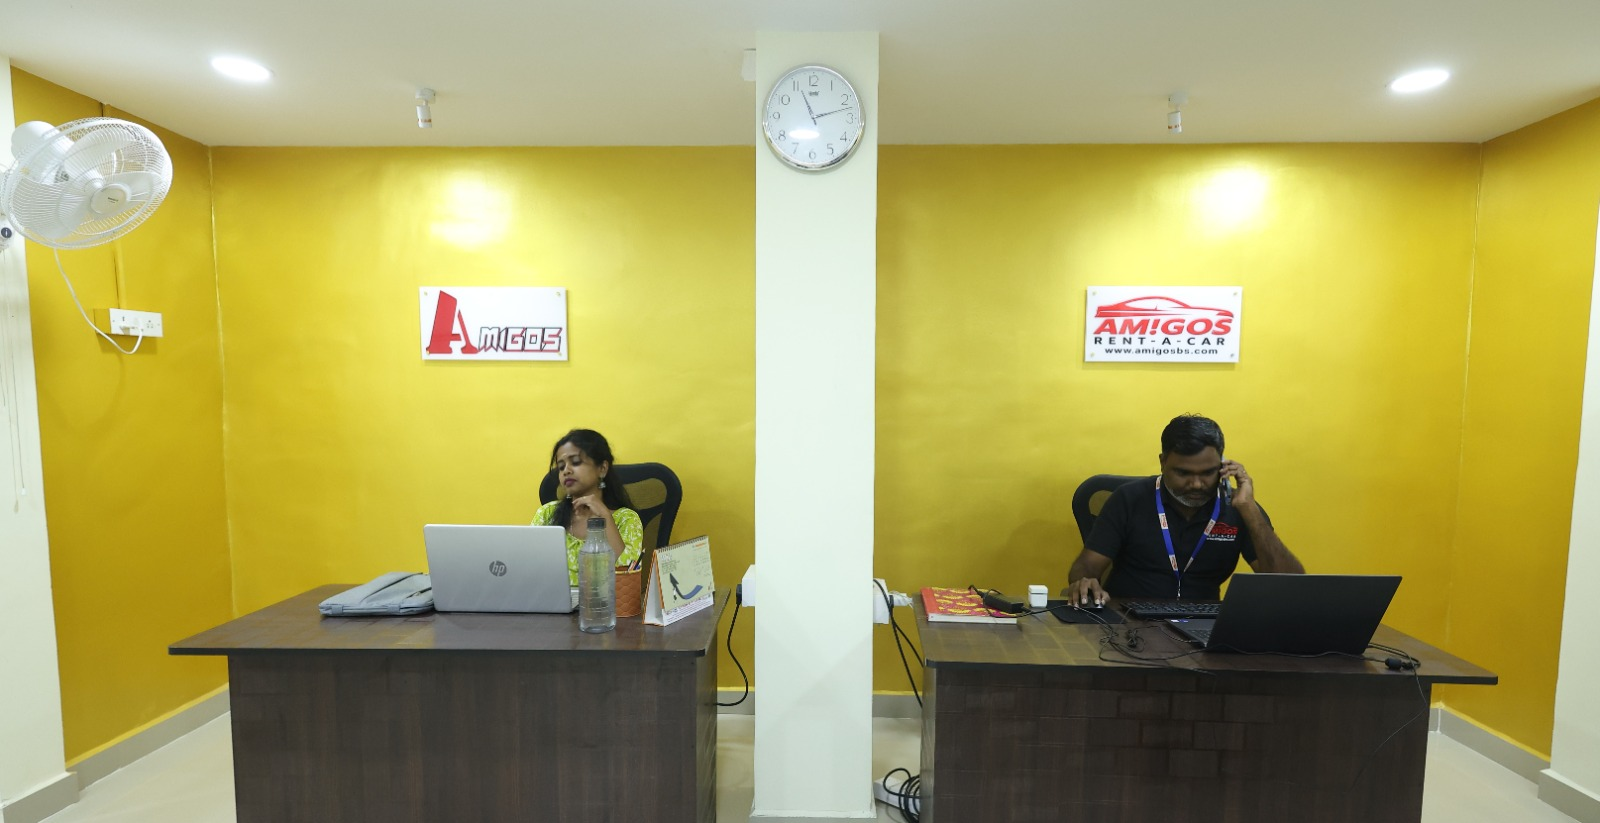
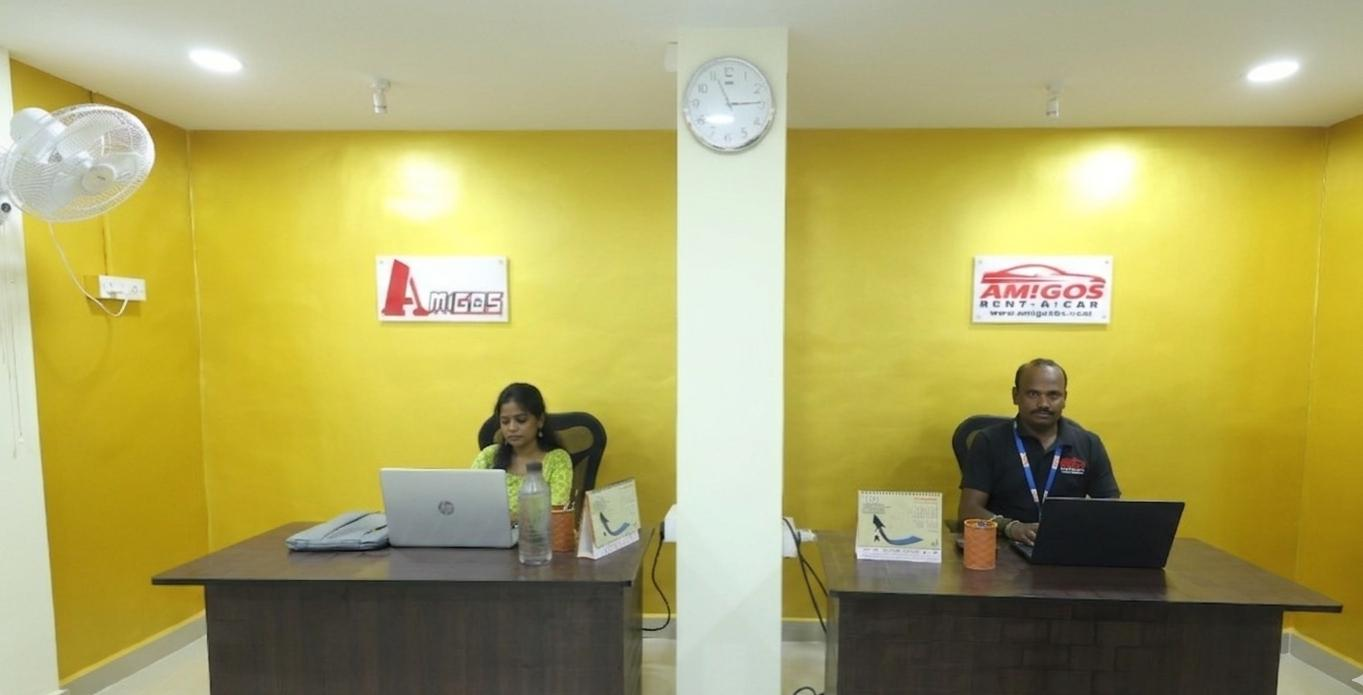
ui

diff --git a/src/components/screens/home/sections/team/team.module.scss b/src/components/screens/home/sections/team/team.module.scss
@@ -22,12 +22,27 @@
     position: relative;
     border-radius: 12px;
     overflow: hidden;
-    height: 380px;
-    background-color: #fcebbb;
 
+    &::after {
+      content: "";
+      position: absolute;
+      bottom: 0;
+      left: 0;
+      right: 0;
+      height: 100px;
+
+      background: linear-gradient(
+        to top,
+        rgba(14, 18, 28, 0.95) 0%,
+        rgba(14, 18, 28, 0) 100%
+      );
+      z-index: 2;
+    }
+
+    // height: 380px;
 
     .image_wrapper {
-      position: absolute;
+      // position: absolute;
       top: 0;
       left: 0;
       width: 100%;
@@ -37,19 +52,6 @@
       img {
         object-fit: cover;
       }
-    }
-
-    &::after {
-      content: "";
-      position: absolute;
-      bottom: 0;
-      left: 0;
-      right: 0;
-      height: 60%;
-      background: linear-gradient(to top,
-          rgba(14, 18, 28, 0.95) 0%,
-          rgba(14, 18, 28, 0) 100%);
-      z-index: 2;
     }
 
     .card_content {
@@ -64,7 +66,7 @@
       text-align: center;
 
       h3 {
-        color: #ffffff;
+        color: white;
         font-size: 22px;
         font-weight: 700;
         margin-bottom: 5px;
@@ -77,8 +79,6 @@
         margin: 0;
       }
     }
-
-
   }
 
   @media (max-width: 768px) {

diff --git a/src/components/screens/about/sections/team/team.module.scss b/src/components/screens/about/sections/team/team.module.scss
@@ -12,13 +12,15 @@
     background: #2a2a2a;
     border-radius: 12px;
     overflow: hidden;
-    transition: transform 0.3s ease, box-shadow 0.3s ease;
+    transition:
+      transform 0.3s ease,
+      box-shadow 0.3s ease;
     height: 100%;
 
     &:hover {
       transform: translateY(-10px);
       box-shadow: 0 15px 30px rgba(0, 0, 0, 0.4);
-      
+
       .image_wrapper {
         img {
           transform: scale(1.1);
@@ -29,7 +31,7 @@
     .image_wrapper {
       height: 350px;
       overflow: hidden;
-      
+
       img {
         width: 100%;
         height: 100%;

diff --git a/src/components/layout/Header/Header.jsx b/src/components/layout/Header/Header.jsx
@@ -111,11 +111,12 @@ const NavItem = ({ item }) => {
           setShowDropDown(false);
         }}
       >
-        <Link href={item.href || "#"}>
+        <p>
           {item.title}
           &nbsp;
+          
           <ChevronDown />
-        </Link>
+        </p>
         {showDropDown && (
           <div className={styles.dropdownWrap}>
             <div className={`${styles.dropdown}`}>

diff --git a/src/components/screens/about/sections/intro/intro.module.scss b/src/components/screens/about/sections/intro/intro.module.scss
@@ -67,7 +67,7 @@
         color: #ff1a1a;
         font-weight: 600;
         letter-spacing: 2px;
-        font-size: 14px;
+        font-size: 24px;
         position: relative;
         display: inline-block;
 
@@ -189,7 +189,7 @@
   // max-width: 400px;
 
   h3 {
-    font-size: 24px;
+    font-size: 20px;
     margin-bottom: 25px;
     color: #ffffff;
     font-weight: 600;